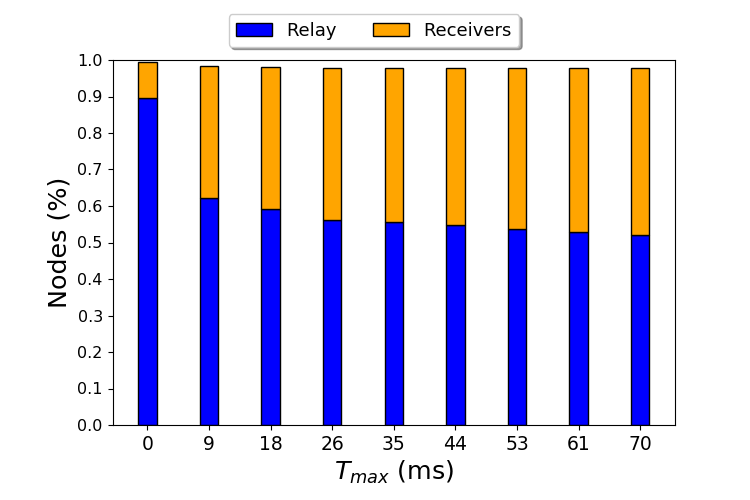
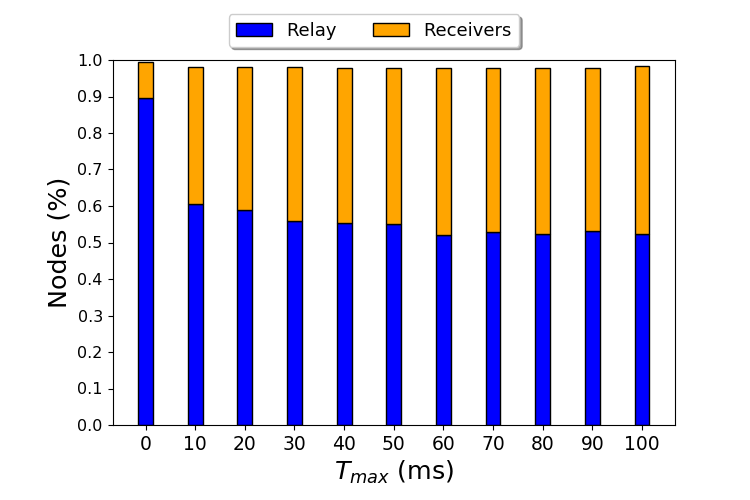
using 11 different tmax values

Changed region(s): [[0.2453, 0.12, 0.8893, 0.9], [0.184, 0.12, 0.2147, 0.9]]

diff --git a/grafici/invited/Tmax-comparison.py b/grafici/invited/Tmax-comparison.py
@@ -9,11 +9,11 @@ from sim_config import config
 from simulator import performSimulations
 
 if config.city_name == "NewYork":
-    tmax_vals = np.linspace(0, 0.07, 9)
+    tmax_vals = np.linspace(0, 0.1, 11)
 elif config.city_name == "Luxembourg":
-    tmax_vals = np.linspace(0, 0.07, 9)
+    tmax_vals = np.linspace(0, 0.1, 11)
 elif config.city_name == "Cologne":
-    tmax_vals = np.linspace(0, 0.07, 9)
+    tmax_vals = np.linspace(0, 0.1, 11)
 else:
     raise Exception(f"city {config.city_name} NA")
 
